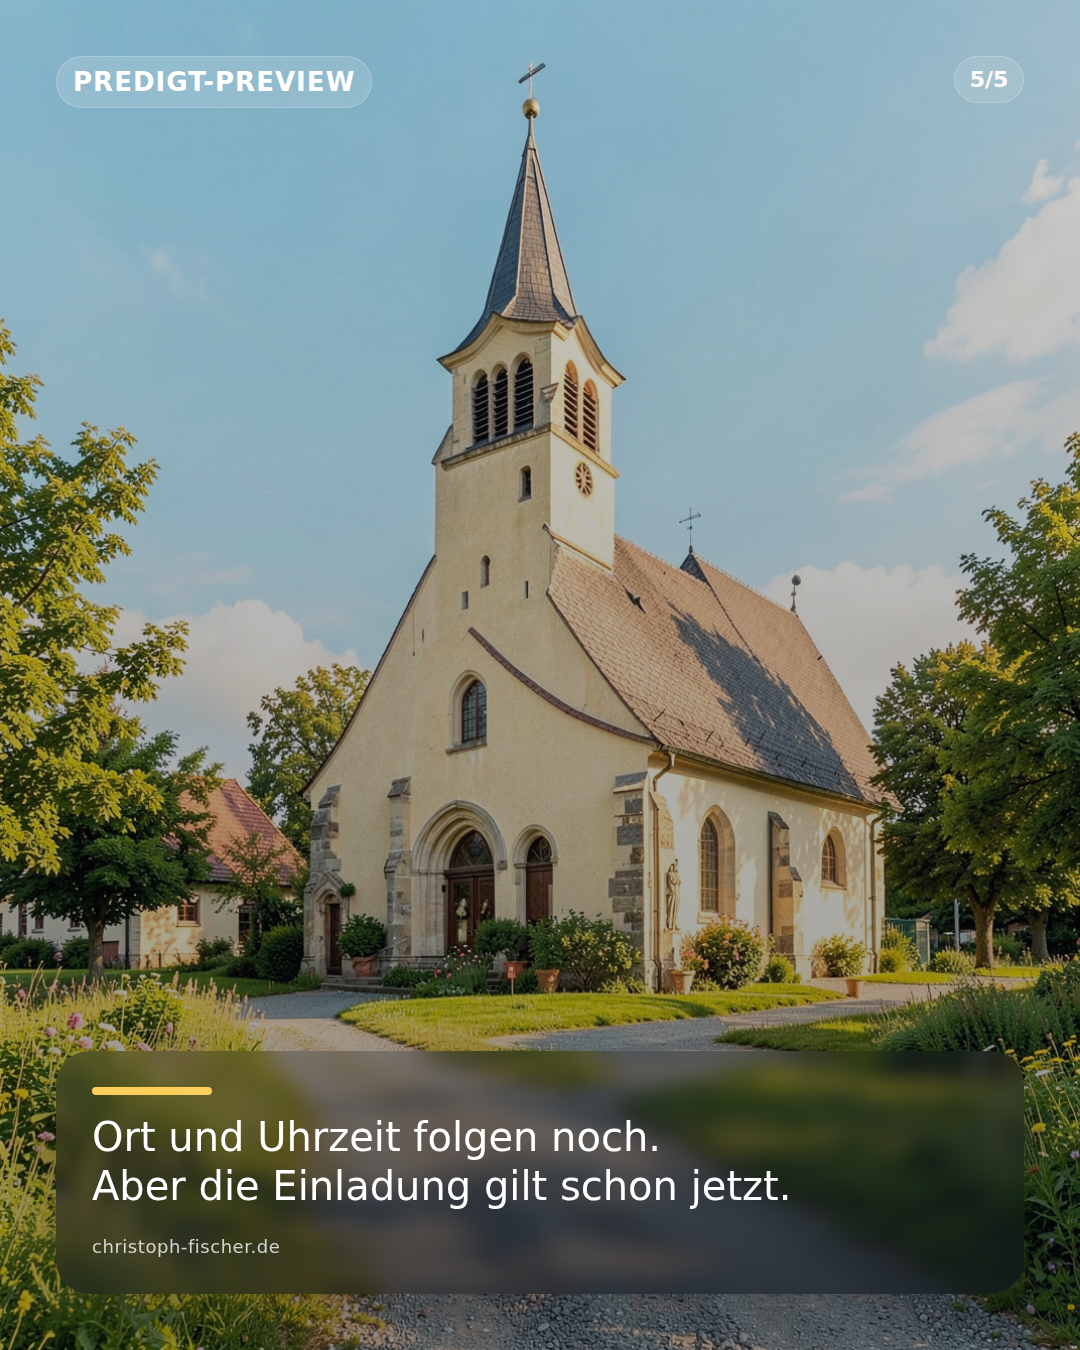
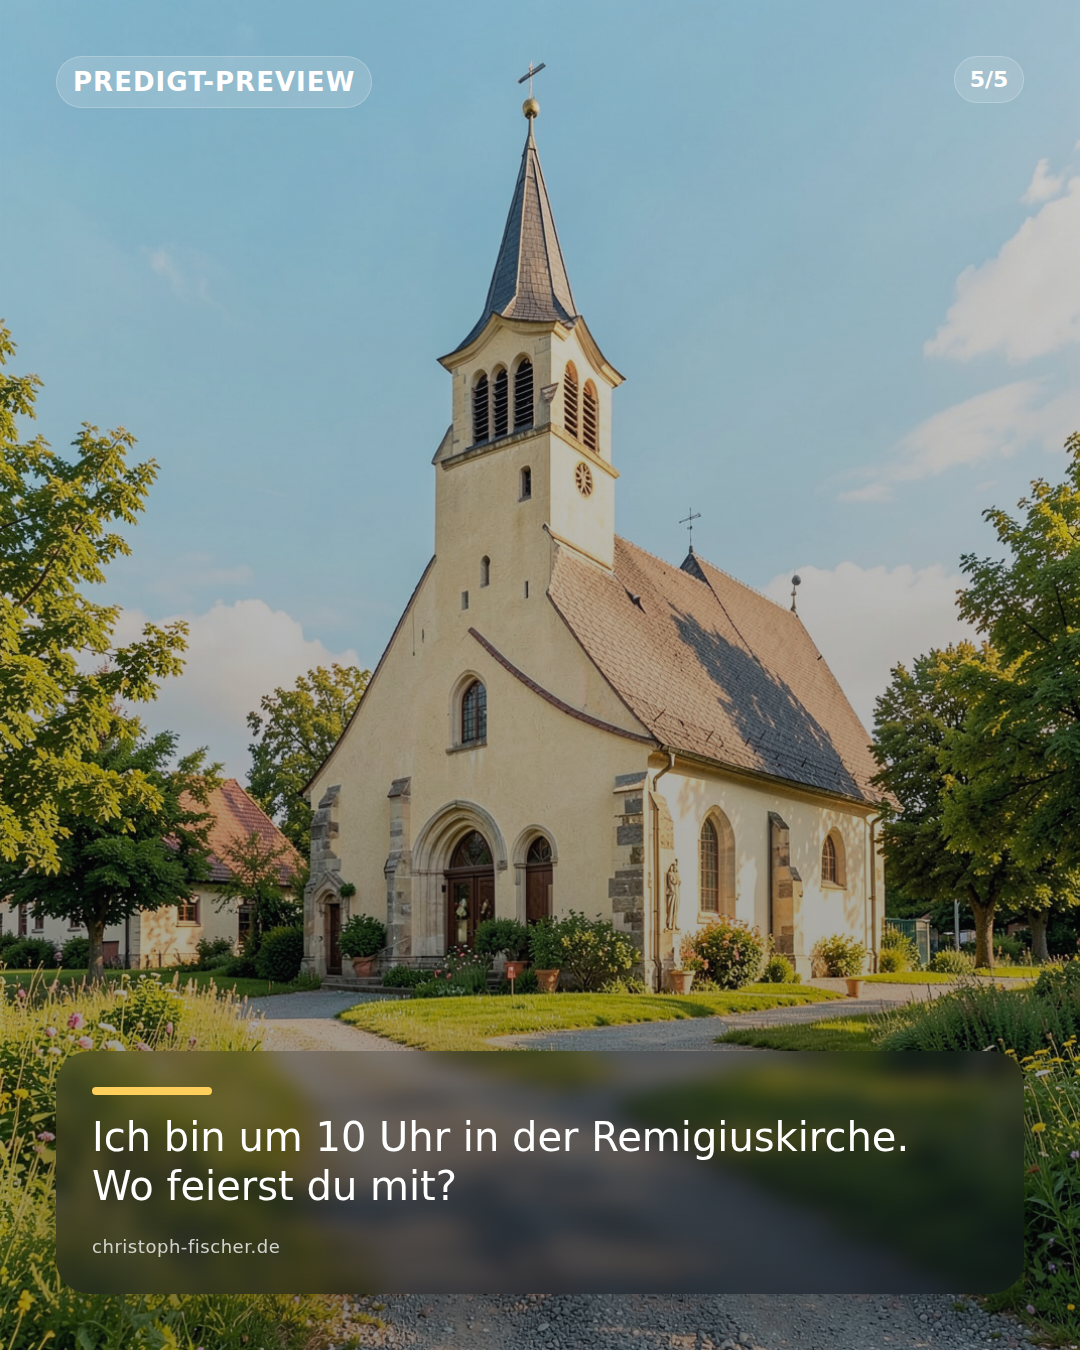
Update content: POST /api/posts/post-0006/actions/render

Changed region(s): [[0.0917, 0.8089, 0.825, 0.9022]]

diff --git a/2026-08-15/post-0006/render-instagram-feed-05.html b/2026-08-15/post-0006/render-instagram-feed-05.html
@@ -313,8 +313,8 @@
         <section class="panel">
   <div class="accent-line"></div>
    
-  <p class="body-text" data-overflow-id="primary-text">Ort und Uhrzeit folgen noch.
-Aber die Einladung gilt schon jetzt.</p>
+  <p class="body-text" data-overflow-id="primary-text">Ich bin um 10 Uhr in der Remigiuskirche. 
+Wo feierst du mit?</p>
      
   <p class="sender-mark">christoph-fischer.de</p>
 </section>
